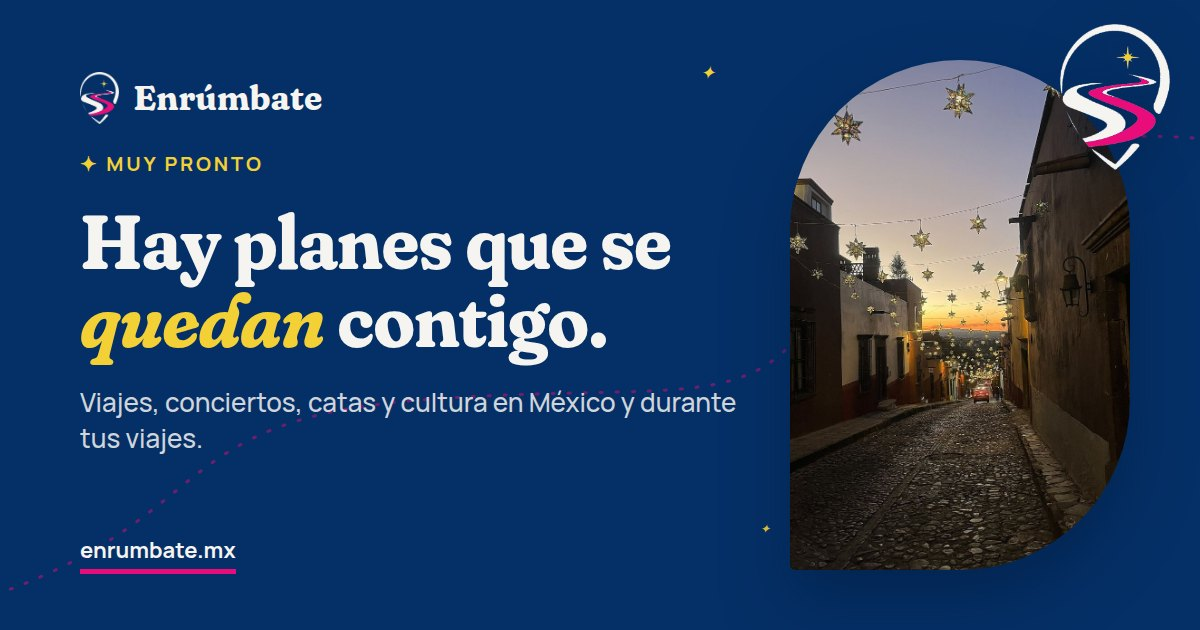
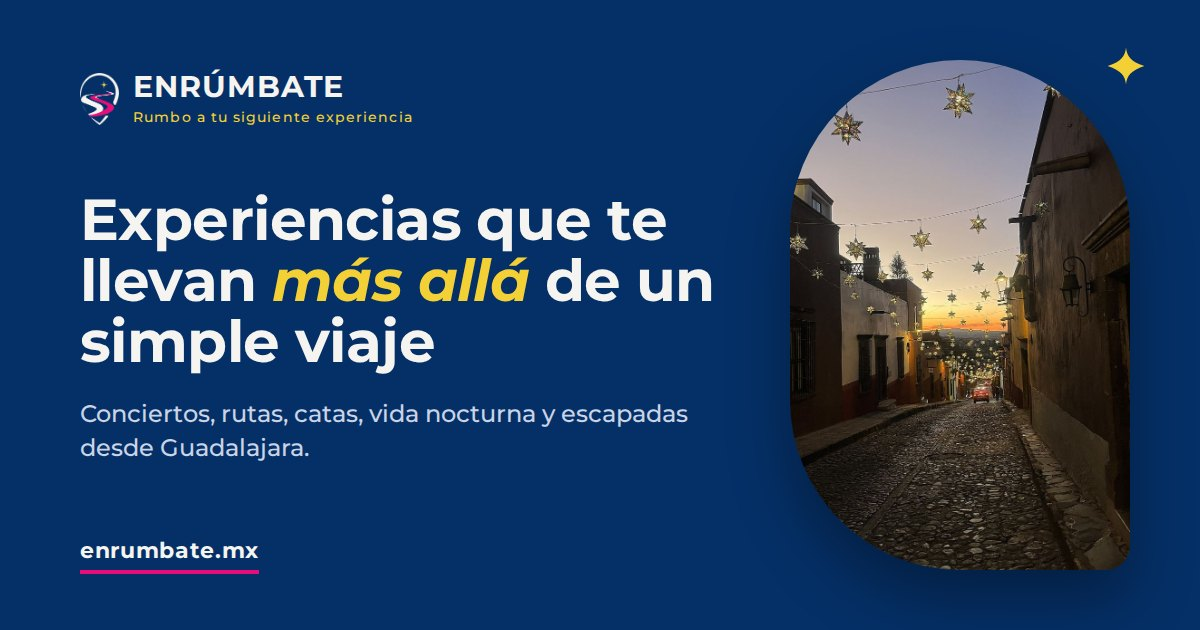
SEO (imagen para compartir nueva, sitemap, robots, datos estructurados de eventos, ícono iPhone) y arreglos en tablet: tiras de categorías en 5 columnas sin cortar palabras, valores de Nosotros 2×2 (DS v0.15)
Claude-Session: https://claude.ai/code/session_01Wxb4vhwPRu7tkQeDTu3x8x

diff --git a/designsystem.html b/designsystem.html
@@ -16,13 +16,14 @@
   <meta property="og:image" content="https://enrumbate.mx/assets/og-image.jpg">
   <meta property="og:image:width" content="1200">
   <meta property="og:image:height" content="630">
-  <meta property="og:image:alt" content="Enrúmbate: Hay planes que se quedan contigo. Calle de San Miguel de Allende con estrellas de papel.">
+  <meta property="og:image:alt" content="Enrúmbate: Experiencias que te llevan más allá de un simple viaje. Calle de San Miguel de Allende con estrellas de papel.">
   <meta name="twitter:card" content="summary_large_image">
   <meta name="twitter:title" content="Enrúmbate · Design System">
   <meta name="twitter:description" content="Colores, tipografía, retícula, logo y componentes de Enrúmbate.">
   <meta name="twitter:image" content="https://enrumbate.mx/assets/og-image.jpg">
   <link rel="canonical" href="https://enrumbate.mx/designsystem.html">
   <link rel="icon" type="image/png" href="assets/logo-mark-sm.png">
+  <link rel="apple-touch-icon" href="assets/apple-touch-icon.png">
   <link rel="preload" href="assets/fonts/montserrat-latin.woff2" as="font" type="font/woff2" crossorigin>
   <link rel="stylesheet" href="css/styles.css">
   <link rel="stylesheet" href="css/site.css">
@@ -214,13 +215,13 @@
       <li><a class="lnk" href="#voz">Voz <b>VOZ</b></a></li>
       <li><a class="lnk" href="#cambios">Cambios</a></li>
     </ol>
-    <p class="ver">Design System v0.14 · 12 nov 2026</p>
+    <p class="ver">Design System v0.15 · 12 nov 2026</p>
   </aside>
 
   <main class="ds-main">
     <!-- =============== INTRO =============== -->
     <header class="ds-hero">
-      <p class="eyebrow">Design System · v0.14</p>
+      <p class="eyebrow">Design System · v0.15</p>
       <h1>Todo lo que hace que Enrúmbate se <em class="spark">vea</em> como Enrúmbate.</h1>
       <p class="lead">Colores, tipografías, retícula, logo y componentes derivados del isotipo: un pin con un camino que lleva a una estrella. Esta página refleja exactamente lo que usa el sitio.</p>
       <div class="howto">
@@ -560,6 +561,7 @@
         <table class="log">
           <thead><tr><th>Versión</th><th>Fecha</th><th>IDs</th><th>Cambio</th></tr></thead>
           <tbody>
+            <tr><td>v0.15</td><td>12 nov 2026</td><td>COM-14, LOG-01</td><td>SEO: nueva imagen para compartir (og-image) con Montserrat, ENRÚMBATE y el eslogan, con texto alternativo en todas las páginas; robots.txt y sitemap.xml; ícono para iPhone (apple-touch-icon); datos estructurados de Google generados desde js/data.js (Enrúmbate como agencia de viajes en todas las páginas y los eventos con fecha en inicio, Originales y Calendario). Tablet: la tira de categorías del inicio y la de Originales quedan en 5 columnas con icono arriba (antes 4 + 1 sola y palabras cortadas como “Concierto-s”); valores de Nosotros en 2×2 en tablet y 4 en escritorio (antes 3 + 1 sola).</td></tr>
             <tr><td>v0.14</td><td>12 nov 2026</td><td>COL-56, TXT-19, TXT-40, TXT-43</td><td>Fondos: se mantiene la mezcla actual, navy para momentos de marca y crema para leer y elegir (COL-56; la clienta lo dejó a nuestro criterio). Pago: por ahora solo transferencia, coordinada por WhatsApp; pasos y preguntas del inicio lo dicen, con nueva pregunta “¿Cómo pago?”.</td></tr>
             <tr><td>v0.13</td><td>12 nov 2026</td><td>TIP-01…04, TIP-10…18, TIP-20, LOG-04, MAR-05</td><td>Tipografía de la clienta: todo el sitio en Montserrat (sustituye a Fraunces y Manrope). Nombre ENRÚMBATE en mayúsculas, Bold, tracking 30; eslogan nuevo “Rumbo a tu siguiente experiencia” en Medium, tracking 77 (header, pie, inicio). Contenido: se quita Punta Pérula (no existe por ahora); Pub Crawl y Tour Gótico pasan a “Próximamente” porque por ahora solo hay transporte a Morat y la Fan Party en Rakata.</td></tr>
             <tr><td>v0.12</td><td>12 nov 2026</td><td>COL-46, COL-47, COL-60…67, FOR-09…12, TIP-16…18</td><td>Pulido: los colores sueltos (transparencias sobre navy, velos de foto, header) y las sombras pasan a tokens con ID; tamaños de letra sueltos pasan a la escala (nuevos TIP-17 15px y TIP-18 12px); valores de “Lo que nos mueve” alineados arriba; botón de tarjeta en dos líneas centrado y con aire; flechas y estrellas dibujadas en lugar de caracteres (↗, ↑, ✦) en la página en construcción y el pie.</td></tr>
@@ -580,7 +582,7 @@
     </section>
 
     <footer class="ds-foot">
-      <span>Enrúmbate · Design System v0.14</span>
+      <span>Enrúmbate · Design System v0.15</span>
       <span><a class="text-link" href="inicio.html">Ver el sitio</a></span>
     </footer>
   </main>

diff --git a/js/site.js b/js/site.js
@@ -227,9 +227,45 @@
     document.querySelectorAll('[data-icon]').forEach(s => { s.outerHTML = icon(s.dataset.icon, s.className); });
   }
 
+  /* ---------- Datos estructurados para Google (schema.org) ----------
+     Organización en todas las páginas; eventos con fecha (Originales vigentes)
+     en inicio, Originales y Calendario. Se generan de js/data.js. */
+  function schema(active) {
+    const BASE = 'https://enrumbate.mx/';
+    const org = {
+      '@type': 'TravelAgency', '@id': BASE + '#org', name: 'Enrúmbate', url: BASE,
+      slogan: 'Rumbo a tu siguiente experiencia',
+      logo: BASE + 'assets/logo-mark.png', image: BASE + 'assets/og-image.jpg',
+      telephone: '+52' + C.whatsapp.replace(/^52/, ''), email: C.email,
+      address: { '@type': 'PostalAddress', addressLocality: 'Guadalajara', addressRegion: 'Jalisco', addressCountry: 'MX' },
+      areaServed: 'Guadalajara, Jalisco', sameAs: [C.instagram, C.facebook]
+    };
+    const graph = [org];
+    if (['inicio', 'originales', 'calendario'].includes(active)) {
+      ENR.experiencias.filter(e => e.linea === 'originales' && e.fecha && vigente(e)).forEach(e => {
+        const ev = {
+          '@type': 'Event', name: e.titulo, description: e.desc,
+          startDate: e.fecha, endDate: e.fechaFin || e.fecha,
+          eventStatus: 'https://schema.org/EventScheduled',
+          eventAttendanceMode: 'https://schema.org/OfflineEventAttendanceMode',
+          location: { '@type': 'Place', name: e.lugar, address: { '@type': 'PostalAddress', addressLocality: 'Guadalajara', addressRegion: 'Jalisco', addressCountry: 'MX' } },
+          image: BASE + e.img, url: BASE + 'calendario.html', organizer: { '@id': BASE + '#org' }
+        };
+        const m = e.precio && e.precio.match(/\$\s?([\d,]+)/);
+        if (m) ev.offers = { '@type': 'Offer', price: m[1].replace(/,/g, ''), priceCurrency: 'MXN', availability: 'https://schema.org/InStock', url: BASE + 'calendario.html' };
+        graph.push(ev);
+      });
+    }
+    const sc = document.createElement('script');
+    sc.type = 'application/ld+json';
+    sc.textContent = JSON.stringify({ '@context': 'https://schema.org', '@graph': graph });
+    document.head.appendChild(sc);
+  }
+
   /* ---------- Init ---------- */
   const h = document.getElementById('site-header');
   if (h) h.outerHTML = header(h.dataset.active);
+  schema(h ? h.dataset.active : '');
   const f = document.getElementById('site-footer');
   if (f) f.outerHTML = footer();
   /* Botón flotante de WhatsApp (móvil y tablet) */

diff --git a/originales.html b/originales.html
@@ -15,9 +15,11 @@
   <meta property="og:image" content="https://enrumbate.mx/assets/og-image.jpg">
   <meta property="og:image:width" content="1200">
   <meta property="og:image:height" content="630">
+  <meta property="og:image:alt" content="Enrúmbate: Experiencias que te llevan más allá de un simple viaje. Calle de San Miguel de Allende con estrellas de papel.">
   <meta name="twitter:card" content="summary_large_image">
   <link rel="canonical" href="https://enrumbate.mx/originales.html">
   <link rel="icon" type="image/png" href="assets/logo-mark-sm.png">
+  <link rel="apple-touch-icon" href="assets/apple-touch-icon.png">
   <link rel="preload" as="image" href="assets/img/exp/hero-gdl.webp" imagesrcset="assets/img/exp/hero-gdl-760.webp 760w, assets/img/exp/hero-gdl.webp 1280w" imagesizes="100vw" fetchpriority="high">
   <link rel="preload" href="assets/fonts/montserrat-latin.woff2" as="font" type="font/woff2" crossorigin>
   <link rel="stylesheet" href="css/styles.css">
@@ -47,7 +49,7 @@
     </section>
 
     <section class="strip strip-dark strip-originales" aria-label="Categorías Originales">
-      <div class="container"><div class="strip-inner" data-cat-strip data-largo="1" data-cats="catas,conciertos,recorridos,nocturna,escapadas"></div></div>
+      <div class="container"><div class="strip-inner strip-cats" data-cat-strip data-largo="1" data-cats="catas,conciertos,recorridos,nocturna,escapadas"></div></div>
     </section>
 
     <section class="section" id="experiencias" aria-labelledby="exp-title">

diff --git a/css/site.css b/css/site.css
@@ -241,6 +241,9 @@
 .prose { display: grid; gap: var(--space-4); max-width: 62ch; font-size: 1.0625rem; }
 .prose p { color: var(--color-text-muted); }
 .values { display: grid; gap: var(--space-5); grid-template-columns: repeat(auto-fit, minmax(min(240px, 100%), 1fr)); }
+/* 4 valores: 1 columna en celular, 2×2 en tablet y 4 en escritorio (sin uno huérfano) */
+@media (min-width: 560px) { .values { grid-template-columns: repeat(2, minmax(0, 1fr)); } }
+@media (min-width: 1100px) { .values { grid-template-columns: repeat(4, minmax(0, 1fr)); } }
 .value { display: grid; gap: var(--space-3); padding: var(--space-6); background: var(--white); border-radius: var(--radius-md); }
 .value .ico { width: 36px; height: 36px; color: var(--magenta-600); }
 .value p { color: var(--color-text-muted); }
@@ -412,7 +415,7 @@ h1.page-title { font-size: var(--fs-h2); }
 
 /* Tira de categorías: de 700px en adelante, icono arriba y 5 columnas iguales (sin cortar palabras) */
 @media (min-width: 700px) {
-  .strip-cats .strip-inner { grid-template-columns: repeat(auto-fit, minmax(0, 1fr)); }
+  .strip-inner.strip-cats { grid-template-columns: repeat(auto-fit, minmax(0, 1fr)); }
   .strip-cats .cat-item { flex-direction: column; text-align: center; gap: var(--space-2); padding-inline: var(--space-3); }
 }
 

diff --git a/index.html b/index.html
@@ -15,13 +15,14 @@
   <meta property="og:image" content="https://enrumbate.mx/assets/og-image.jpg">
   <meta property="og:image:width" content="1200">
   <meta property="og:image:height" content="630">
-  <meta property="og:image:alt" content="Enrúmbate: Hay planes que se quedan contigo. Calle de San Miguel de Allende con estrellas de papel.">
+  <meta property="og:image:alt" content="Enrúmbate: Experiencias que te llevan más allá de un simple viaje. Calle de San Miguel de Allende con estrellas de papel.">
   <meta name="twitter:card" content="summary_large_image">
   <meta name="twitter:title" content="Enrúmbate · Muy pronto">
   <meta name="twitter:description" content="Planes memorables, con todo el gusto de vivirlos. Viajes, conciertos, catas y cultura en México y durante tus viajes.">
   <meta name="twitter:image" content="https://enrumbate.mx/assets/og-image.jpg">
   <link rel="canonical" href="https://enrumbate.mx/">
   <link rel="icon" type="image/png" href="assets/logo-mark-sm.png">
+  <link rel="apple-touch-icon" href="assets/apple-touch-icon.png">
   <link rel="preload" href="assets/fonts/montserrat-latin.woff2" as="font" type="font/woff2" crossorigin>
   <link rel="stylesheet" href="css/styles.css">
   <style>

diff --git a/inicio.html b/inicio.html
@@ -15,9 +15,11 @@
   <meta property="og:image" content="https://enrumbate.mx/assets/og-image.jpg">
   <meta property="og:image:width" content="1200">
   <meta property="og:image:height" content="630">
+  <meta property="og:image:alt" content="Enrúmbate: Experiencias que te llevan más allá de un simple viaje. Calle de San Miguel de Allende con estrellas de papel.">
   <meta name="twitter:card" content="summary_large_image">
   <link rel="canonical" href="https://enrumbate.mx/inicio.html">
   <link rel="icon" type="image/png" href="assets/logo-mark-sm.png">
+  <link rel="apple-touch-icon" href="assets/apple-touch-icon.png">
   <link rel="preload" as="image" href="assets/img/hero.webp" imagesrcset="assets/img/hero-560.webp 560w, assets/img/hero.webp 880w" imagesizes="(min-width: 1024px) 440px, min(78vw, 360px)" fetchpriority="high">
   <link rel="preload" href="assets/fonts/montserrat-latin.woff2" as="font" type="font/woff2" crossorigin>
   <link rel="stylesheet" href="css/styles.css">

diff --git a/select.html b/select.html
@@ -15,9 +15,11 @@
   <meta property="og:image" content="https://enrumbate.mx/assets/og-image.jpg">
   <meta property="og:image:width" content="1200">
   <meta property="og:image:height" content="630">
+  <meta property="og:image:alt" content="Enrúmbate: Experiencias que te llevan más allá de un simple viaje. Calle de San Miguel de Allende con estrellas de papel.">
   <meta name="twitter:card" content="summary_large_image">
   <link rel="canonical" href="https://enrumbate.mx/select.html">
   <link rel="icon" type="image/png" href="assets/logo-mark-sm.png">
+  <link rel="apple-touch-icon" href="assets/apple-touch-icon.png">
   <link rel="preload" as="image" href="assets/img/exp/hero-vinedos.webp" imagesrcset="assets/img/exp/hero-vinedos-760.webp 760w, assets/img/exp/hero-vinedos.webp 1280w" imagesizes="100vw" fetchpriority="high">
   <link rel="preload" href="assets/fonts/montserrat-latin.woff2" as="font" type="font/woff2" crossorigin>
   <link rel="stylesheet" href="css/styles.css">

diff --git a/nosotros.html b/nosotros.html
@@ -15,9 +15,11 @@
   <meta property="og:image" content="https://enrumbate.mx/assets/og-image.jpg">
   <meta property="og:image:width" content="1200">
   <meta property="og:image:height" content="630">
+  <meta property="og:image:alt" content="Enrúmbate: Experiencias que te llevan más allá de un simple viaje. Calle de San Miguel de Allende con estrellas de papel.">
   <meta name="twitter:card" content="summary_large_image">
   <link rel="canonical" href="https://enrumbate.mx/nosotros.html">
   <link rel="icon" type="image/png" href="assets/logo-mark-sm.png">
+  <link rel="apple-touch-icon" href="assets/apple-touch-icon.png">
   <link rel="preload" as="image" href="assets/img/cultura.webp" imagesrcset="assets/img/cultura-600.webp 600w, assets/img/cultura.webp 900w" imagesizes="100vw" fetchpriority="high">
   <link rel="preload" href="assets/fonts/montserrat-latin.woff2" as="font" type="font/woff2" crossorigin>
   <link rel="stylesheet" href="css/styles.css">

diff --git a/experiencias.html b/experiencias.html
@@ -15,9 +15,11 @@
   <meta property="og:image" content="https://enrumbate.mx/assets/og-image.jpg">
   <meta property="og:image:width" content="1200">
   <meta property="og:image:height" content="630">
+  <meta property="og:image:alt" content="Enrúmbate: Experiencias que te llevan más allá de un simple viaje. Calle de San Miguel de Allende con estrellas de papel.">
   <meta name="twitter:card" content="summary_large_image">
   <link rel="canonical" href="https://enrumbate.mx/experiencias.html">
   <link rel="icon" type="image/png" href="assets/logo-mark-sm.png">
+  <link rel="apple-touch-icon" href="assets/apple-touch-icon.png">
   <link rel="preload" href="assets/fonts/montserrat-latin.woff2" as="font" type="font/woff2" crossorigin>
   <link rel="stylesheet" href="css/styles.css">
   <link rel="stylesheet" href="css/site.css">

diff --git a/calendario.html b/calendario.html
@@ -15,9 +15,11 @@
   <meta property="og:image" content="https://enrumbate.mx/assets/og-image.jpg">
   <meta property="og:image:width" content="1200">
   <meta property="og:image:height" content="630">
+  <meta property="og:image:alt" content="Enrúmbate: Experiencias que te llevan más allá de un simple viaje. Calle de San Miguel de Allende con estrellas de papel.">
   <meta name="twitter:card" content="summary_large_image">
   <link rel="canonical" href="https://enrumbate.mx/calendario.html">
   <link rel="icon" type="image/png" href="assets/logo-mark-sm.png">
+  <link rel="apple-touch-icon" href="assets/apple-touch-icon.png">
   <link rel="preload" href="assets/fonts/montserrat-latin.woff2" as="font" type="font/woff2" crossorigin>
   <link rel="stylesheet" href="css/styles.css">
   <link rel="stylesheet" href="css/site.css">

diff --git a/contacto.html b/contacto.html
@@ -15,9 +15,11 @@
   <meta property="og:image" content="https://enrumbate.mx/assets/og-image.jpg">
   <meta property="og:image:width" content="1200">
   <meta property="og:image:height" content="630">
+  <meta property="og:image:alt" content="Enrúmbate: Experiencias que te llevan más allá de un simple viaje. Calle de San Miguel de Allende con estrellas de papel.">
   <meta name="twitter:card" content="summary_large_image">
   <link rel="canonical" href="https://enrumbate.mx/contacto.html">
   <link rel="icon" type="image/png" href="assets/logo-mark-sm.png">
+  <link rel="apple-touch-icon" href="assets/apple-touch-icon.png">
   <link rel="preload" href="assets/fonts/montserrat-latin.woff2" as="font" type="font/woff2" crossorigin>
   <link rel="stylesheet" href="css/styles.css">
   <link rel="stylesheet" href="css/site.css">

diff --git a/textos.html b/textos.html
@@ -16,8 +16,10 @@
   <meta property="og:image" content="https://enrumbate.mx/assets/og-image.jpg">
   <meta property="og:image:width" content="1200">
   <meta property="og:image:height" content="630">
+  <meta property="og:image:alt" content="Enrúmbate: Experiencias que te llevan más allá de un simple viaje. Calle de San Miguel de Allende con estrellas de papel.">
   <meta name="twitter:card" content="summary_large_image">
   <link rel="icon" type="image/png" href="assets/logo-mark-sm.png">
+  <link rel="apple-touch-icon" href="assets/apple-touch-icon.png">
   <link rel="preload" href="assets/fonts/montserrat-latin.woff2" as="font" type="font/woff2" crossorigin>
   <link rel="stylesheet" href="css/styles.css">
   <link rel="stylesheet" href="css/site.css">
